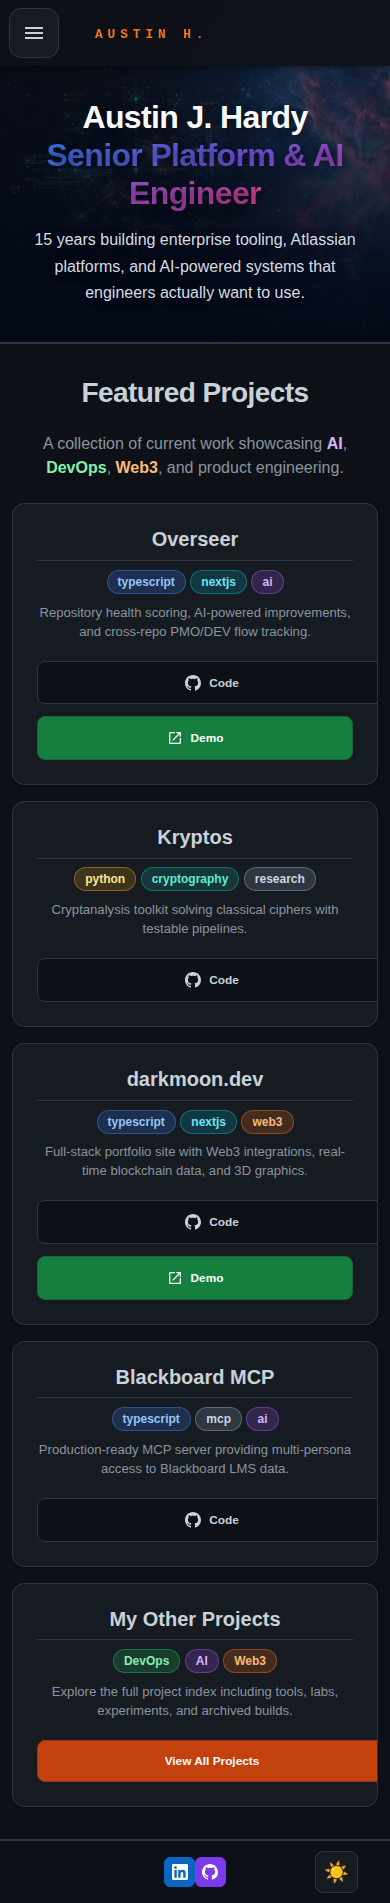
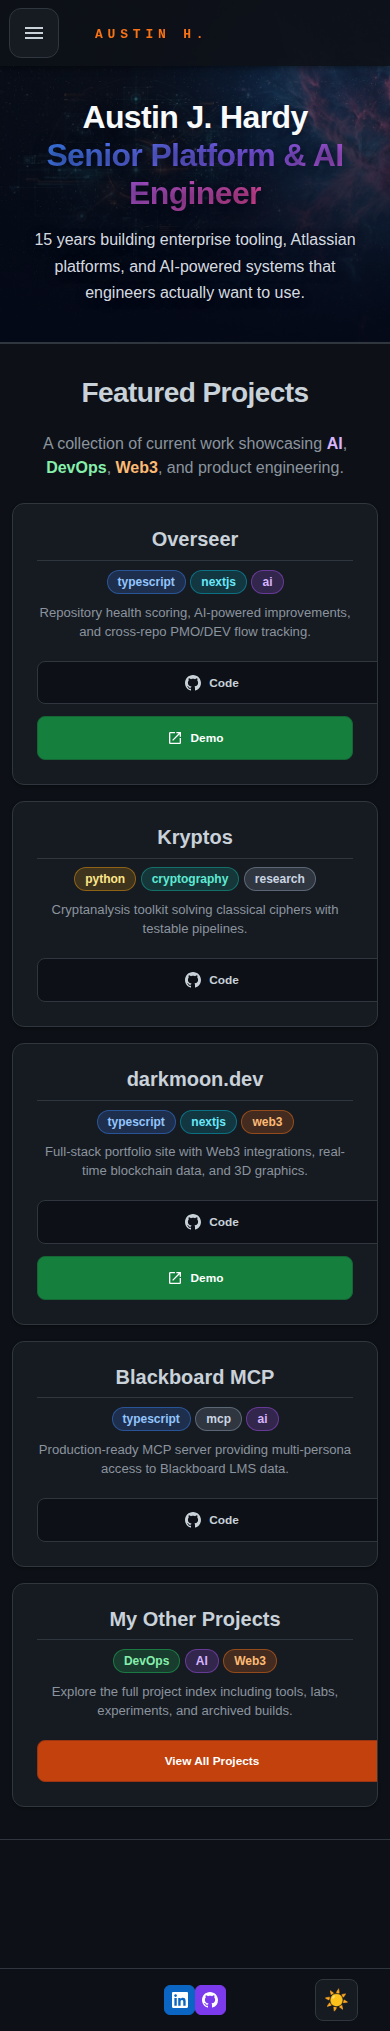
fix: mobile layout, Spline mount, blog punctuation and home clipping (#565-#572) (#574)
* fix: mobile layout, Spline mount, blog punctuation and home clipping (#565-#572)

Fixes #565
Fixes #566
Fixes #567
Fixes #568
Fixes #569
Fixes #572

- #565: blog post CSS module selectors wrapped in :global so the image max-width and TOC hide apply; article may shrink below its widest code line so pre scrolls.
- #566: /profile main uses boxSizing border-box (100% + 2rem padding overflowed by 32px).
- #567: Labs .App uses width 100% instead of 100vw (body margin added 8px sideways scroll).
- #568: /3d mounts the Spline runtime on its public scene again (d8766c3 had replaced the mount with a placeholder); scene is kept inside its framed panel.
- #569: encoding pass had replaced em dashes, arrows, tree characters and check/cross marks in 7 posts with |--, |    and [OK]; restored from the clean copy in git history (5f28e39/ff99759) and by rule for new lines; code-sample links unwrapped. Unit test rejects |-- and [OK].
- #572: home .home-main uses min-height instead of a fixed height, no overflow hidden, plus bottom padding so the last card row clears the fixed footer.

Baselines regenerated in the Playwright 1.64 image: journeys (3 mock-wallet visitor steps), docs/screenshots (19 PNGs whose layout changed; 3d.png shows the fallback text because the screenshot fixture blocks Spline).

* fix(blog): restore remaining tree art; drop /3d from screenshot set (#569, #568)
[…]

diff --git a/src/app/projects/blogs/[slug]/BlogPost.module.css b/src/app/projects/blogs/[slug]/BlogPost.module.css
@@ -1,37 +1,37 @@
 /* Blog Post Content Styles */
-.blog-content {
+:global(.blog-content) {
   font-family:
     -apple-system, BlinkMacSystemFont, "Segoe UI", "Roboto", "Oxygen", "Ubuntu",
     "Cantarell", "Fira Sans", "Droid Sans", "Helvetica Neue", sans-serif;
 }
 
-.blog-content h1,
-.blog-content h2,
-.blog-content h3,
-.blog-content h4 {
+:global(.blog-content) h1,
+:global(.blog-content) h2,
+:global(.blog-content) h3,
+:global(.blog-content) h4 {
   scroll-margin-top: 100px;
 }
 
-.blog-content pre {
+:global(.blog-content) pre {
   position: relative;
 }
 
-.blog-content pre code {
+:global(.blog-content) pre code {
   display: block;
   white-space: pre;
   word-wrap: normal;
 }
 
-.blog-content a:hover {
+:global(.blog-content) a:hover {
   border-bottom-color: #3b82f6;
 }
 
-.blog-content ul,
-.blog-content ol {
+:global(.blog-content) ul,
+:global(.blog-content) ol {
   margin-left: 1.5rem;
 }
 
-.blog-content table {
+:global(.blog-content) table {
   width: 100%;
   border-collapse: collapse;
   margin: 1.5rem 0;
@@ -40,67 +40,67 @@
   overflow: hidden;
 }
 
-.blog-content th,
-.blog-content td {
+:global(.blog-content) th,
+:global(.blog-content) td {
   padding: 0.75rem 1rem;
   border: 1px solid rgba(59, 130, 246, 0.2);
   text-align: left;
 }
 
-.blog-content th {
+:global(.blog-content) th {
   background: rgba(59, 130, 246, 0.1);
   font-weight: 600;
   color: #3b82f6;
 }
 
-.blog-content td {
+:global(.blog-content) td {
   color: rgba(255, 255, 255, 0.8);
 }
 
 /* Mobile responsiveness */
 @media (max-width: 768px) {
-  .blog-content {
+  :global(.blog-content) {
     font-size: 1rem;
   }
 
-  .blog-content pre {
+  :global(.blog-content) pre {
     padding: 1rem;
     font-size: 0.875rem;
   }
 
-  .blog-content h1 {
+  :global(.blog-content) h1 {
     font-size: 1.75rem !important;
   }
 
-  .blog-content h2 {
+  :global(.blog-content) h2 {
     font-size: 1.5rem !important;
   }
 
-  .blog-content h3 {
+  :global(.blog-content) h3 {
     font-size: 1.25rem !important;
   }
 }
 
 /* Syntax highlighting for code blocks */
-.blog-content code {
+:global(.blog-content) code {
   tab-size: 2;
 }
 
 /* Checkmark lists */
-.blog-content li:has(input[type="checkbox"]) {
+:global(.blog-content) li:has(input[type="checkbox"]) {
   list-style: none;
   margin-left: -1.5rem;
 }
 
 /* Horizontal rules */
-.blog-content hr {
+:global(.blog-content) hr {
   border: none;
   border-top: 2px solid rgba(59, 130, 246, 0.3);
   margin: 2rem 0;
 }
 
 /* Floating TOC */
-.toc {
+:global(.toc) {
   position: sticky;
   top: 100px;
   max-width: 200px;
@@ -111,29 +111,29 @@
   border-radius: 8px;
   font-size: 0.9rem;
 }
-.toc ul {
+:global(.toc) ul {
   list-style: none;
   padding: 0;
   margin: 0;
 }
-.toc li {
+:global(.toc) li {
   margin-bottom: 0.5rem;
 }
-.toc a {
+:global(.toc) a {
   color: #3b82f6;
   text-decoration: none;
 }
-.toc a:hover {
+:global(.toc) a:hover {
   text-decoration: underline;
 }
 @media (max-width: 768px) {
-  .toc {
+  :global(.toc) {
     display: none;
   }
 }
 
 /* Images */
-.blog-content img {
+:global(.blog-content) img {
   max-width: 100%;
   height: auto;
   border-radius: 8px;

diff --git a/src/app/_components/_spline/spline-home.tsx b/src/app/_components/_spline/spline-home.tsx
@@ -1,13 +1,15 @@
 // Spline Home Navigation
 "use client";
-import { useEffect, useState } from "react";
+import { useEffect, useRef, useState } from "react";
 
-// Set the scene URL
+// Public scene URL (no API key needed)
 const SPLINE_SCENE = `https://prod.spline.design/I53VLJ6OCdGVN8lr/scene.splinecode`;
 
 export function SplineScene() {
   const [isLoading, setIsLoading] = useState(true);
   const [shouldRender, setShouldRender] = useState(false);
+  const [failed, setFailed] = useState(false);
+  const canvasRef = useRef<HTMLCanvasElement | null>(null);
 
   // Auto-hide loading after 10 seconds regardless of actual load state
   useEffect(() => {
@@ -38,6 +40,34 @@ export function SplineScene() {
     };
   }, []);
 
+  // Mount the Spline runtime on the canvas once the browser is idle
+  useEffect(() => {
+    if (!shouldRender || !canvasRef.current) return;
+
+    let cancelled = false;
+
+    const initSpline = async () => {
+      try {
+        const { Application } = await import("@splinetool/runtime");
+        if (cancelled || !canvasRef.current) return;
+        const app = new Application(canvasRef.current, { renderMode: "auto" });
+        await app.load(SPLINE_SCENE);
+        if (!cancelled) setIsLoading(false);
+      } catch {
+        if (!cancelled) {
+          setFailed(true);
+          setIsLoading(false);
+        }
+      }
+    };
+
+    initSpline();
+
+    return () => {
+      cancelled = true;
+    };
+  }, [shouldRender]);
+
   return (
     // Use the page-level spline container so the scene can sit behind header/footer
     <div
@@ -55,11 +85,14 @@ export function SplineScene() {
         </div>
       )}
 
-      {/* The Spline runtime injects a canvas; wrap it so we can force sizing via CSS */}
+      {/* The Spline runtime draws into this canvas; CSS forces it to fill the wrapper */}
       <div className="spline-canvas" aria-hidden={isLoading ? "true" : "false"}>
-        {shouldRender ? (
+        {shouldRender && !failed ? (
+          <canvas ref={canvasRef} aria-label="Interactive 3D scene" />
+        ) : null}
+        {failed ? (
           <div className="spline-loading-text" role="status" aria-live="polite">
-            Interactive scene is unavailable in this environment.
+            Interactive scene could not be loaded.
           </div>
         ) : null}
       </div>

diff --git a/src/app/_components/_styles/global.css b/src/app/_components/_styles/global.css
@@ -424,15 +424,15 @@ header {
 
 /* Home page single-screen layout on desktop */
 .home-single-page {
-  height: 100vh;
-  overflow: hidden;
+  min-height: 100vh;
 }
 
 .home-main {
-  height: calc(100vh - 66px);
+  min-height: calc(100vh - 66px);
   display: grid;
   grid-template-rows: 55% 45%;
-  overflow: hidden;
+  /* keep the last card row clear of the fixed footer bar */
+  padding-bottom: 8rem;
 }
 
 @media (max-width: 900px) {
@@ -444,6 +444,7 @@ header {
 
   .home-main {
     height: auto;
+    min-height: 0;
     display: block;
     overflow: visible;
   }
@@ -528,6 +529,14 @@ main {
   height: 100% !important;
   display: block;
   pointer-events: auto; /* Enable Spline canvas interactions */
+}
+
+/* /3d frames the scene in a fixed-height panel: keep it inside the frame */
+.spline-frame .spline-container {
+  position: relative;
+  inset: auto;
+  height: 100%;
+  pointer-events: auto;
 }
 
 .spline-loading {

diff --git a/tests/visual/pages.js b/tests/visual/pages.js
@@ -6,6 +6,8 @@
 // Not captured (see docs/screenshots/README.md):
 //   /blogs, /clients  308 redirects to /projects/blogs and /projects/clients
 //   /logout           disconnects the wallet and redirects to / after 1 s
+//   /3d               the Spline scene needs the network; the fixture blocks it and hides canvases,
+//                     so the capture would show the fallback text (capture the live scene by hand)
 const BLOG_SLUG = "portfolio-netlify-docker";
 
 const pages = [
@@ -18,7 +20,6 @@ const pages = [
   { id: "client-projects", path: "/projects/clients", mobile: true },
   { id: "labs", path: "/labs", mobile: true },
   { id: "crypto", path: "/crypto", mobile: true },
-  { id: "3d", path: "/3d" },
   { id: "profile", path: "/profile" },
   { id: "labs-domains", path: "/labs/domains" },
   { id: "labs-mint", path: "/labs/mint" },

diff --git a/src/__tests__/blog-content.test.ts b/src/__tests__/blog-content.test.ts
@@ -1,0 +1,19 @@
+/**
+ * @jest-environment node
+ */
+// Guards #569: an encoding pass turned em dashes, arrows, tree-drawing
+// characters and check/cross marks into ASCII "|-- ", "|    ", "||o" and "[OK]".
+import { blogPosts } from "../lib/data/blogs";
+
+describe("blog post content", () => {
+  it.each(blogPosts.map((post) => [post.slug, post.content] as const))(
+    "%s has no mangled punctuation",
+    (_slug, content) => {
+      expect(content).not.toContain("|-- ");
+      expect(content).not.toContain("[OK]");
+      // Tree art: a line that starts with "||" (or "|" then spaces) was a box-drawing branch.
+      expect(content).not.toMatch(/^\s*\|\|/m);
+      expect(content).not.toMatch(/^\s*\|\s{2,}\S/m);
+    },
+  );
+});

diff --git a/src/app/projects/blogs/[slug]/page.tsx b/src/app/projects/blogs/[slug]/page.tsx
@@ -88,6 +88,8 @@ export default async function BlogPostPage({ params }: BlogPostPageProps) {
               maxWidth: "800px",
               padding: "2rem 1rem",
               flex: 1,
+              // Let the flex item shrink below its widest code line so <pre> scrolls
+              minWidth: 0,
             }}
           >
             {/* Category Badge */}

diff --git a/src/app/3d/page.tsx b/src/app/3d/page.tsx
@@ -53,6 +53,7 @@ const ThreeDPage: React.FC = () => {
               </p>
             </div>
             <div
+              className="spline-frame"
               style={{
                 width: "100%",
                 height: "70vh",

diff --git a/src/app/profile/page.tsx b/src/app/profile/page.tsx
@@ -54,6 +54,7 @@ const ProfilePage: React.FC = () => {
           padding: "2rem 1rem",
           maxWidth: "800px",
           width: "100%",
+          boxSizing: "border-box",
           margin: "80px auto 0",
         }}
       >

diff --git a/src/app/_components/_styles/labs.css b/src/app/_components/_styles/labs.css
@@ -8,7 +8,7 @@ html {
   display: flex;
   flex-direction: column;
   height: 100vh;
-  width: 100vw;
+  width: 100%;
   background-color: var(--color-background);
   text-align: center;
   color: var(--color-text-primary);

diff --git a/docs/CHANGELOG.md b/docs/CHANGELOG.md
@@ -12,7 +12,7 @@ and this project adheres to [Semantic Versioning](https://semver.org/spec/v2.0.0
 ### Added
 - `site-tour-vert`: a 29 s, 1080x1920 narrated tour of the site (home, projects, resume, about, blog, Labs) with burned-in captions, built compose-only from the committed screenshots (`promo/site-tour-vert/`, `promo/build.sh`, Kokoro narration lines committed under `vo/`), published to `github-pages-blog/brag/` and a "Site tour" slot on the Pages page, and mirrored into five features' `spots[]`.
 - Showcase gaps closed (screenshots, journeys, diagrams, linked):
-  - **Screenshots:** `docs/screenshots/` holds one PNG per page of the site (19 pages at 1440×900 plus 9 `-mobile` 390×844 shots, and 5 state shots: light theme, mock wallet connected on the mint portal and profile, the mint card and the chain switcher). `tests/visual` draws them with `toHaveScreenshot` (`config/playwright.screenshots.config.ts`) behind a deterministic fixture (third-party hosts blocked, mock chain RPC, frozen clock, seeded `Math.random`, GIFs reduced to their first frame, header brand timer awaited) in the `config/Dockerfile.test` Playwright image; `.github/workflows/visual-docs.yml` redraws them and the diagrams and opens a bot PR. `/blogs`, `/clients` (308 redirects) and `/logout` (disconnects and redirects) are not captured.
+  - **Screenshots:** `docs/screenshots/` holds one PNG per page of the site (18 pages at 1440×900 plus 9 `-mobile` 390×844 shots, and 5 state shots: light theme, mock wallet connected on the mint portal and profile, the mint card and the chain switcher). `tests/visual` draws them with `toHaveScreenshot` (`config/playwright.screenshots.config.ts`) behind a deterministic fixture (third-party hosts blocked, mock chain RPC, frozen clock, seeded `Math.random`, GIFs reduced to their first frame, header brand timer awaited) in the `config/Dockerfile.test` Playwright image; `.github/workflows/visual-docs.yml` redraws them and the diagrams and opens a bot PR. `/blogs`, `/clients` (308 redirects), `/logout` (disconnects and redirects) and `/3d` (Spline needs the network, which the fixture blocks) are not captured.
   - **Journeys:** `tests/journeys` (8 journeys: landing page, project filter, blog post, resume, about, theme persistence, mock-wallet connect/disconnect, phone menu) with a viewport baseline per step, reusing the screenshot fixture. `.github/workflows/journeys.yml` replaces `playwright-nightly.yml`: a read-only PR job and a nightly job that files deduplicated `bot:journey` issues, both pinned to one `nitsuah/.github` commit. The one-time review pass filed #565-#569 (`bot:review`).
   - **Diagrams:** `docs/diagrams/architecture.mmd` and `deploy-flow.mmd` (rendered to SVG in CI, embedded in the README).
   - **Linked:** `promo/spots.json` maps the screenshots to 17 of the 21 user-visible features; the other 56 are marked `"visual": "none"` (stack, process, accessibility claims, stubs).
@@ -29,6 +29,10 @@ and this project adheres to [Semantic Versioning](https://semver.org/spec/v2.0.0
 - `Docker Images` workflow builds `config/Dockerfile.unit` and `config/Dockerfile.test` and runs Jest / Playwright inside them whenever `.nvmrc`, a Dockerfile or a compose file changes. CI Fast uses setup-node and never exercised these images.
 
 ### Fixed
+- Mobile layout (390 px): blog post CSS selectors are `:global` so the image max-width and the TOC hide apply (#565); `/profile` main uses `border-box` so it no longer overflows by 32 px (#566); Labs pages use `width: 100%` instead of `100vw`, removing the 8 px sideways scroll (#567).
+- `/3d` mounts the Spline runtime on its public scene again (a placeholder had replaced the mount in d8766c3), inside its framed panel (#568).
+- Blog posts: the encoding pass had replaced em dashes, arrows, tree characters and check/cross marks in 7 posts with `|--`, `|    ` and `[OK]`; restored from the clean copies in history, plus links unwrapped inside code samples. A unit test rejects `|-- ` and `[OK]` in post content (#569).
+- Home page at 1440×900: the `.home-main` grid no longer clips the project cards; short viewports scroll (#572).
 - Docs: README and METRICS now reflect the Node 26.11.1 pin and the Playwright image's actual bundled Node (v24.21.0, not 24.20.0).
 - Every page declared `<link rel="canonical" href="https://nitsuah.io">` (a root-layout `alternates.canonical` inherited by all routes), telling search engines each page, including every blog post, was a duplicate of the homepage.
 - Site-wide `og:image`/`twitter:image` pointed at `/social-preview.svg`, which doesn't exist (404), so shared links had no preview image.

diff --git a/docs/TASKS.md b/docs/TASKS.md
@@ -19,7 +19,7 @@
   - Context: [#565](https://github.com/Nitsuah-Labs/nitsuah-io/issues/565) blog post is 1040 px wide on a phone (CSS-module selectors never match), [#569](https://github.com/Nitsuah-Labs/nitsuah-io/issues/569) 7 of 11 posts contain mangled `|--` punctuation.
   - Acceptance Criteria: both issues closed with the journeys' baselines regenerated in the same PR.
 
-- [ ] Capture for promo: interactive-3d-scenes, spline-3d-scene-on-3d-route (the `/3d` scene once it loads, [#568](https://github.com/Nitsuah-Labs/nitsuah-io/issues/568)); ens-resolution (a connected wallet whose address resolves to an ENS name); domain-registration (`/labs/register` with a connected wallet).
+- [ ] Capture for promo: interactive-3d-scenes, spline-3d-scene-on-3d-route (the `/3d` scene once it loads, [#568](https://github.com/Nitsuah-Labs/nitsuah-io/issues/568); "3d" is not in the screenshot fixture set, so capture it from the live scene); ens-resolution (a connected wallet whose address resolves to an ENS name); domain-registration (`/labs/register` with a connected wallet).
 
 - [ ] Replace placeholder-heavy client demo assets.
   - Context: the restaurant, e-commerce, real-estate, CMS, and NFT demos still rely on missing or placeholder imagery tracked in `docs/archive/SCREENSHOTS.md`.
